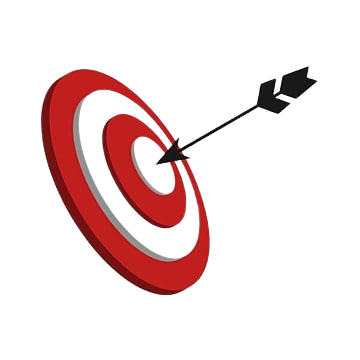
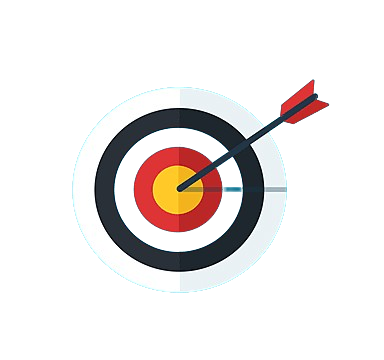
Updated Profile, Functionality Page

diff --git a/templates/convert.html b/templates/convert.html
@@ -1,25 +1,59 @@
-{% with page_title="Inksight" %}
-{% include "header.html" %}
-{% endwith %}
+	{% with page_title="Inksight" %}
+	{% include "header.html" %}
+	{% endwith %}
 
-{% with page_name="home" %}
-{% include "navbar.html" %}
-{% endwith %}
+	{% with page_name="home" %}
+	{% include "navbar.html" %}
+	{% endwith %}
 
-<div class="container-fluid p-4">
-	<h1 class="display-5 text-center">Convert images of handwriting to text</h1>
-	<div class="row m-2 p-3 rounded bg-body-tertiary">
-		<div class="col-sm-6">
-		  <label for="formFile" class="form-label">Default file input example</label>
-		  <input class="form-control" type="file" id="formFile">
-		  <button class="btn btn-primary btn-lg">Convert</button>
-		</div>
-		<div class="col-sm-6 p-3">
-			<div class="bg-white text-black rounded p-2">
-			Batata kha re
+	<style>
+		.card {
+			border-radius: 15px;
+			box-shadow: 0 0 10px rgba(0, 0, 0, 0.1);
+			padding: 30px;
+			background-color: #2b2b29dd; /*Tertiary background color */
+		}
+
+		.feature-line {
+			border-bottom: 2px solid #ff9a9a;
+			margin: 20px auto;
+			max-width: 400px;
+		}
+	</style>
+
+	<div class="container py-4">
+		<div class="row justify-content-center">
+			<!-- First Half: Upload Image -->
+			<div class="col-md-6">
+				<div class="card">
+					<h2 class="text-center mb-4">Convert Images to Text</h2>
+					<div class="feature-line"></div>
+					<form action="/upload_image" method="POST" enctype="multipart/form-data">
+						<div class="mb-3 text-center">
+							<label for="formFile" class="form-label">Upload an image of handwriting:</label>
+							<input class="form-control" type="file" id="formFile" name="image" accept="image/*" required>
+						</div>
+						<div class="d-grid gap-2">
+							<button class="btn btn-primary btn-lg" type="submit">Convert to Text</button>
+						</div>
+					</form>
+				</div>
+			</div>
+
+			<!-- Second Half: Converted Output -->
+			<div class="col-md-6">
+				<div class="card">
+					<h2 class="text-center mb-4">Converted Text</h2>
+					<div class="feature-line"></div>
+					<div class="text-center my-4">
+						<p class="lead">Text converted from the uploaded image will appear here.</p>
+					</div>
+					<div class="d-grid gap-2">
+						<a href="#" class="btn btn-success btn-lg" download>Download Text</a>
+					</div>
+				</div>
 			</div>
 		</div>
 	</div>
-</div>
 
-{% include "footer.html" %}
+	{% include "footer.html" %}

diff --git a/templates/profile.html b/templates/profile.html
@@ -15,6 +15,11 @@
     .card-body {
         flex: 1;
     }
+    
+    /* Adjust the max-width of the profile picture */
+    .profile-picture {
+        max-width: 200px; /* Adjust the size as per your preference */
+    }
 </style>
 
 <div class="container mt-5">
@@ -28,7 +33,7 @@
                     <h3>Update Profile Picture</h3>
                 </div>
                 <div class="card-body text-center">
-                    <img src="https://i.pinimg.com/474x/65/25/a0/6525a08f1df98a2e3a545fe2ace4be47.jpg" alt="Profile Picture" class="img-fluid rounded-circle mb-3" style="max-width: 150px;">
+                    <img src="https://i.pinimg.com/474x/65/25/a0/6525a08f1df98a2e3a545fe2ace4be47.jpg" alt="Profile Picture" class="img-fluid rounded-circle mb-3 profile-picture">
                     <form action="/change_pfp" method="POST" enctype="multipart/form-data">
                         <div class="form-group my-3">
                             <label for="pfp">Choose new profile picture:</label>